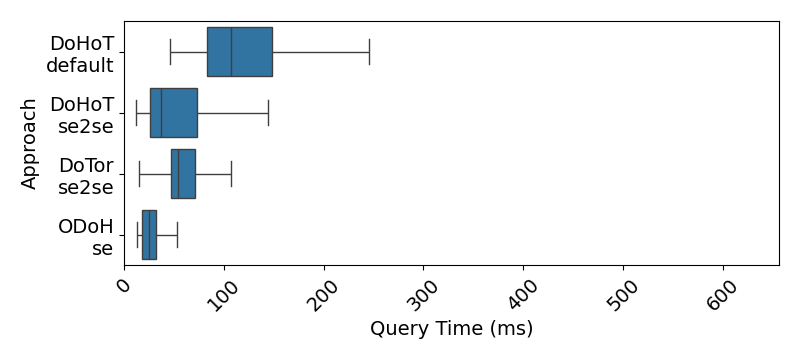
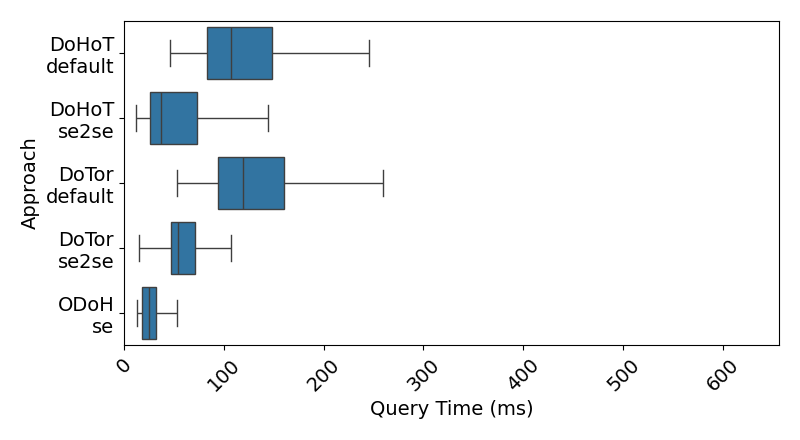
Improved clarity, updated graph/table, cropped world map

diff --git a/latex/src/background.tex b/latex/src/background.tex
@@ -31,14 +31,14 @@ the resolver operator.
 a low-latency anonymity network~\cite{dingledine2004} with an estimated 5
 million daily users and about 10,000 volunteer-operated relays as part of the
 Tor network~\cite{TorMetricsServers,TorMetricsUsers}. Tor provides anonymity by
-routing traffic through a series of relays as part of the Tor network such that
-no single relay knows both the communication's origin and destination. Traffic
-is routed through short-lived circuits. A typical circuit consists of three
-relays: an entry guard relay, a middle relay, and an exit relay (see
-Figure~\ref{fig:default-tor}). The entry relay is the only node that can observe
-the client source IP address. The middle relay forwards encrypted traffic
-between the entry and exit, while the exit relay communicates with the final
-destination. The circuit creation is referred to as path
+routing traffic through a series of these relays such that no single relay
+knows both the communication's origin and destination. Traffic is routed
+through short-lived circuits. A typical circuit consists of three relays: an
+entry guard relay, a middle relay, and an exit relay (see
+Figure~\ref{fig:default-tor}). The entry relay is the only node that can
+observe the client source IP address. The middle relay forwards encrypted
+traffic between the entry and exit, while the exit relay communicates with the
+final destination. The circuit creation is referred to as path
 selection~\cite{tor-path-selection}. The entry guard is long-lived (i.e., fixed
 from a small guard set that persists across invocations of Tor), while middle
 and exit relays are sampled weighted by their measured bandwidth. One thing to
@@ -62,27 +62,29 @@ separating the client from the query.
 servers act as recursive resolvers~\cite{ODNS}. A client encrypts the domain
 name with a key and appends the special-use \ac{tld} \texttt{odns}. The key
 itself is encrypted using the server's public key. The query and encrypted key
-are sent to any resolver, which acts as a proxy and forwards it to the \ac{odns}
-server. The server decrypts the key, decrypts the domain, performs recursion,
-and returns an encrypted answer via the resolver. The proxy resolver only sees
-ciphertext, while the \ac{odns} server cannot identify the client. However, two
-limitations exist: (i) \ac{ecs}~\cite{RFC7871} in \ac{edns}~\cite{RFC6891} may
-de-anonymize clients, and (ii) collusion between the resolver and \ac{odns}
-server links identity and query.
+are sent to any resolver, which acts as a proxy and forwards it to the
+\ac{odns} server (see Figure~\ref{fig:oblivious}). The server decrypts the key,
+decrypts the domain, performs recursion, and returns an encrypted answer via
+the resolver. The proxy resolver only sees ciphertext, while the \ac{odns}
+server cannot identify the client. However, two limitations exist: (i)
+\ac{ecs}~\cite{RFC7871} in \ac{edns}~\cite{RFC6891} may de-anonymize clients,
+and (ii) collusion between the resolver and \ac{odns} server links identity and
+query.
 
-\ac{odoh} builds on the idea from \ac{odns} but is instead using the \ac{doh}
-transport~\cite{RFC9230}, see Figure~\ref{fig:oblivious}. Clients send encrypted
-queries to a \ac{doh} forwarder (the proxy), which relays them to a \ac{doh}
-server (the target resolver). The proxy can observe the client's IP address but
-not the query, while the target resolver can observe the query but not the
-client source IP. The effectiveness of oblivious schemes hinges on the
-availability of resolvers and proxies that support the protocols. If this number
-is limited, it can hinder the scalability, accessibility, and privacy provided
-of the protocols for end-users. \ac{odns} needs custom authoritative name
-servers which also act as recursive resolvers, and \ac{odoh} needs custom
-proxies between clients and the recursive \ac{doh} resolvers. \ac{odoh} has seen
-deployment from Cloudflare with several proxy
-partners~\cite{cfblog,singanamalla2020}. Cloudflare has also commented on
+\acf{odoh} builds on the idea from \ac{odns} but is instead using the \ac{doh}
+transport~\cite{RFC9230}, see Figure~\ref{fig:oblivious}. Clients send
+encrypted queries to a \ac{doh} forwarder (the proxy), which relays them to a
+\ac{doh} server (the target resolver). The proxy can observe the client's IP
+address but not the query, while the target resolver can observe the query but
+not the client source IP. The effectiveness of oblivious schemes hinges on the
+availability of resolvers and proxies that support the protocols. If this
+number is limited, it can hinder the scalability, accessibility, and privacy
+provided of the protocols for end-users. \ac{odns} needs custom authoritative
+name servers which also act as recursive resolvers, and \ac{odoh} needs custom
+proxies between clients and the recursive \ac{doh} resolvers. \ac{odoh} has
+been actively promoted by Cloudflare through early deployment and the
+cultivation of partnerships with multiple proxy
+operators~\cite{cfblog,singanamalla2020}. Cloudflare has also commented on
 Mozilla's implementation of \ac{doh} where they suggested that Firefox also
 could help with discovering \ac{odoh} proxies which is important for a
 widespread adoption of the protocol~\cite{cfmozilla}.
@@ -131,7 +133,7 @@ demonstrated that, despite increased latency, the system maintained acceptable
 performance for everyday Internet activities. The main difference between
 \ac{dotor} and \ac{dohot} is that the exit relay is able to see the query in the
 former, while it is encrypted by the public key of the \ac{doh} resolver in the
-latter. 
+latter (see Figure~\ref{fig:dohot}). 
 
 Because \ac{doh} endpoints are application‑selected, a \ac{dohot} client can
 rotate across multiple independent \ac{doh} resolvers, distributing trust
@@ -163,7 +165,7 @@ resolving domains without knowing what they are using homomorphic encryption
 schemes~\cite{xiao2025}. Clients send encrypted queries to a resolver that
 cannot learn the requested domain, while cache misses trigger iterative lookups
 performed by the client. Authoritative servers privately populate the resolver's
-cache using a new EDNS-PR extension proposed by the authors. This design
+cache using a new extension proposed by the authors. This design
 distributes information exposure across multiple authoritative name servers,
 rather than concentrating it at resolvers, thereby raising the bar for
 large-scale profiling or collusion at the cost of protocol changes.

diff --git a/latex/src/discussion.tex b/latex/src/discussion.tex
@@ -12,18 +12,19 @@ DNS resolution over the Tor network using the Alexa top 10,000 domains. Their
 results showed a median resolution time of 31.31\,ms for traditional \ac{dns},
 compared to 276.76\,ms over Tor. It is important to note that their evaluation
 used a setup similar to \ac{dotor}, where DNS queries are resolved in plaintext
-at the exit relay. In our measurements around \ac{dotor} we saw a median resolution
-time of 250\,ms, but managed to reduce it to 50\,ms by tuning the circuits for latency.
+at the exit relay. In our measurements around \ac{dotor} with default torrc we
+saw a median resolution time of 119\,ms, but managed to reduce it to 54\,ms by
+tuning the circuits for latency.
 
 Singanamalla~\emph{et al.}~\cite{singanamalla2020} evaluated the performance of
 \ac{odoh} in a deployment setting, comparing it with several other protocols
 including standard \ac{doh}, proxied \ac{doh}, various \ac{odoh}
 configurations, DNSCrypt, and \ac{dohot}. They reported an average resolution
-time of approximately 300\,ms for \ac{odoh}, while \ac{dohot} averaged 696.40
-ms. In contrast, our experiments showed a substantially lower average for
-\ac{dohot} at 134.48\,ms. With a two-hop circuit using relays located in the
-same country as the client, the average resolution time was further reduced to
-61.69\,ms.
+time of approximately 300\,ms for \ac{odoh}, while \ac{dohot} averaged
+696.40\,ms. In contrast, our experiments showed a substantially lower average
+for \ac{dohot} at 134.48\,ms. With a two-hop circuit using relays located in
+the same country as the client, the average resolution time was further reduced
+to 61.69\,ms.
 
 Kurihara~\emph{et al.}~\cite{kurihara2023muodns} compared their
 collusion-resistant approach to anonymous \ac{dns} queries: $\mu$ODNS, against
@@ -129,11 +130,10 @@ the work is framed as a proof‑of‑concept with a research prototype demo.
         Tor-based (default) & 134$\pm$110\,ms (mean) & distributed trust + collusion resistant & 10,000 relays~\cite{TorMetricsServers} \\\hline
         Tor-based (2-hop)   & 61$\pm$135\,ms (mean) & distributed trust + collusion resistant & 10,000 relays~\cite{TorMetricsServers} \\\hline
         $\mu$ODNS           & 137$\pm$110\,ms (mean) & collusion resistant & 3 relays~\cite{modns-git} \\\hline
-        PIR-based           & 200\,ms (median) & collusion resistant & 0 relays \\\hline
+        PIR-based           & 208\,ms (median) & collusion resistant & 0 relays \\\hline
     \end{tabular}
 \end{table*}
 
-%\todo{I would refine this table and make it two-column (uses more space as a bonus!). For latency, quantify if possible (avg±std ms). I don't get why oblivious has to have lower latency than mu or PIR. For threat model, make it freetext. Oblivious: non-collusion. DoTor distributed trust, DoHoT: distributed trust + collusion resistance, mu: collusion resistance, PIR: depends. For Deployability, quantify: Tor is easy, try to get numbers for oblivious somewhere, etc. Then in the text, work in a sentence on clarifying that while 2-hop weakens from default Tor, it's still better than related stuff for DNS (for confused reviewers).}
 
 Table~\ref{tab:eval} shows an overview of the three dimensions for comparing
 anonymous \ac{dns} schemes. The oblivious single-proxy schemes have low latency
@@ -156,22 +156,11 @@ infrastructure.
 
 
 \subsection{Limitations} \label{sec:limit} 
-Our experiments primarily measured \ac{dns} query latency using \texttt{NXDOMAIN}
-lookups. This approach eliminates caching as a variable and does not accurately
-reflect real-world usage, where cache hits are common. Depending on the
-measurement targets of the related works, the \texttt{NXDOMAIN} queries could also
-explain some of our lower latency results for comparison. The full resolution
-of an existing domain requires additional queries between the resolver and name
-servers, increasing the round-trip time from client query to resolver response.
-Moreover, the improvement of routing and software stack performance may have
-also contributed to the observed decrease in latency compared to previous work
-in this area. Particularly relevant are the improvements to the performance of
-the Tor network itself~\cite{TorCongestion, TorPerformance}.
 
 \begin{figure*}[ht]
     \centering
     %Tor Relay Distribution in the World
-    \includegraphics[width=\textwidth]{img/tor-relays-map.pdf}
+    \includegraphics[trim={0 2.1cm 0 0},clip,width=\textwidth]{img/tor-relays-map.pdf}
     \caption{By fetching relay information from Tor, and geolocating the IP
     addresses, we plotted the locations on a world map. The result shows that
     relays are primarily located in Europe and the U.S. Other parts of the
@@ -179,12 +168,25 @@ the Tor network itself~\cite{TorCongestion, TorPerformance}.
     \label{fig:map}
 \end{figure*}
 
-The geographical location of the client is also relevant to performance as
+Our experiments primarily measured \ac{dns} query latency using
+\texttt{NXDOMAIN} lookups. This approach eliminates caching as a variable and
+does not accurately reflect real-world usage, where cache hits are common. The
+full resolution of an existing domain requires additional queries between the
+resolver and name servers, increasing the round-trip time from client query to
+resolver response. Depending on the measurement targets of the related works,
+the \texttt{NXDOMAIN} queries could also explain some of our lower latency
+results for comparison. Moreover, the improvement of routing and software stack
+performance may have also contributed to the observed decrease in latency
+compared to previous work in this area. Improvements to the performance of the
+Tor network itself are particularly relevant~\cite{TorCongestion,
+TorPerformance}.
+
+The geographical location of the client is also tied to performance as
 mentioned in Section~\ref{sec:compare}. Putting constraints on the location of
 Tor relays may only be feasible in locations with enough availability. In
 Figure~\ref{fig:map} we plot the geographical locations of available relays in
 December 2025. The two most dense areas in the world are Europe and the U.S.,
 this means that it might not be possible to select two relays within the same
-country, optimizing for latency, in countries outside these two areas. This is
+country, optimizing for latency, outside these two areas. This is
 a limitation of using Tor relays for this purpose.
 

diff --git a/latex/src/method.tex b/latex/src/method.tex
@@ -5,9 +5,9 @@ typically assume the default Tor client configuration (e.g., in as in
 DoHoT~\cite{DoHoT}), where circuits consists of three randomly selected relays
 (see Section~\ref{sec:bg:tor}). The geographic placement of these relays can
 heavily influence latency results. To provide a more complete picture, our
-overarching evaluation considers additional dimensions such as the threat model
-and deployability, in addition to exploring how we can reduce latency in
-Tor-based solutions.
+overarching evaluation in Section~\ref{sec:disc} considers additional
+dimensions such as the threat model and deployability, while exploring
+how we can reduce latency in Tor-based solutions.
 
 This study is focusing on two approaches for reducing latency in Tor circuits:
 controlling the \emph{number} of relays and the \emph{location} of relays. The
@@ -37,7 +37,7 @@ around the world.
 
 To eliminate the effects of caching and to maintain consistency across tests,
 the measurements issue queries for uniquely generated \acp{sld} under a valid
-\ac{tld}, which are expected to return an non-existing-domain return code
+\ac{tld}, which are expected to return a non-existing-domain return code
 (\texttt{NXDOMAIN}). The query name consists of
 \texttt{prot-method-circuit-i-XXXXXXXX.net}. The first part is the protocol in
 use (i.e, \ac{dohot}, \ac{dotor}, \ac{odoh}). The second part is the method for
@@ -52,17 +52,17 @@ query is unique to avoid influence of cache hits. This approach with unique
 path between the client and the resolver.
 
 Each configuration is measured 1,000 times with unique queries. In each
-iteration, we start our measurement container with the specified configuration
-and wait until a circuit is established and an arbitrary query receives a
-successful response. This prelude ensures that the Tor circuit is fully
-established and that we have a functional \ac{dns} resolution over Tor. A query
-is then issued for an A record using a unique non-existent domain described
-earlier, and the time for the reply to return is measured in milliseconds.
-Finally, the container is stopped before the next iteration begins to ensure a
-new circuit. The code for the containers and measurement script can be found on
-GitHub\footnote{Anonymized for submission}.
+iteration, we start our measurement docker container with the specified
+configuration and wait until a circuit is established and an arbitrary query
+receives a successful response. This prelude ensures that the Tor circuit is
+fully established and that we have a functional \ac{dns} resolution over Tor. A
+query is then issued for an A record using a unique non-existent domain
+described earlier, and the time for the reply to return is measured in
+milliseconds. Finally, the container is stopped before the next iteration
+begins to ensure a new circuit. The code for the containers and measurement
+script can be found on GitHub\footnote{Anonymized for submission}.
 
-For comparison we set up docker containers running \ac{dohot} and
+For comparison we set up containers running \ac{dohot} and
 \ac{odoh}. Both of these utilize DNSCrypt-proxy which is a flexible proxy for
 \ac{dns} and supports many encryption protocols~\cite{dnscrypt-proxy}.
 DNSCrypt-proxy is responsible for listening on a port for client queries and
@@ -74,17 +74,17 @@ using anycast which means that the closest from the perspective of our exit or
 proxy will be used\footnote{\url{https://developers.cloudflare.com/1.1.1.1/}}.
 
 In addition we also implemented and measured the latency of \ac{dotor}. This is
-similar to the Tor-based approach used for comparison with \ac{odns}~\cite{ODNS}
-where \ac{doh} is not used. Instead the query is resolved by the exit relay. Our
-\ac{dotor} approach relies on directly interfacing with the Tor client using its
-extensions to the SOCKS5 protocol, specifically the RESOLVE command value
-(0xF0)\cite{tor-socks5}. This allows for sending a domain to be resolved instead
-of a destination for the exit relay to connect to (i.e., Tor uses
-\texttt{RELAY\_RESOLVE} cells~\cite{TorSpecResolve}, see
+similar to the Tor-based approach used for comparison with
+\ac{odns}~\cite{ODNS} where \ac{doh} is not used. Instead the query is resolved
+by the exit relay. Our \ac{dotor} approach relies on directly interfacing with
+the Tor client using its extensions to the SOCKS5 protocol, specifically the
+RESOLVE command value (0xF0)\cite{tor-socks5}. This allows for sending a domain
+to be resolved instead of a destination for the exit relay to connect to (i.e.,
+Tor uses \texttt{RELAY\_RESOLVE} cells~\cite{TorSpecResolve}, see
 Section~\ref{sec:bak:tor}). It should be noted that this approach does not
 utilize full \ac{dns}-queries at this level. To interface with the Tor client a
-python script is instead used to receive and provide dig-compliant DNS queries
-and their answers. While negligible in this context, it should be noted that
-some overhead is incurred in the process.
+python script is used instead of DNSCrypt-proxy to receive and provide
+dig-compliant DNS queries and their answers. While negligible in this context,
+it should be noted that some overhead is incurred in the process.
 
 

diff --git a/latex/src/intro.tex b/latex/src/intro.tex
@@ -23,40 +23,36 @@ data breaches and leakage risks.
 
 To break this direct link between client identity and \ac{dns} query content,
 new protocols have been proposed. \emph{Oblivious} protocols introduce a
-dedicated relay (or proxy) between the client and the resolver so that no single
-entity can observe both ends of the query~\cite{RFC9230,ODNS}. \emph{Tor-based}
-solutions use the Tor network~\cite{dingledine2004} to separate the client
-identity from the query~\cite{DoHoT}. Another recent proposal involves
-integrating \ac{pir} to \ac{dns} resolvers leveraging homomorphic encryption
-schemes~\cite{xiao2025}. The client sends an encrypted query, the resolver
-computes over encrypted data using homomorphic encryption, and returns an
-encrypted response that the client decrypts locally, ensuring the resolver never
-learns the requested domain. Comparing these proposals solely in terms of query
-latency, which is a pain point for both encrypted and anonymous \ac{dns}
-transport, places the Tor-based solutions dead
-last~\cite{RFC9230,kurihara2023muodns,ODNS,xiao2025}.
+dedicated relay (or proxy) between the client and the resolver so that no
+single entity can observe both ends of the query~\cite{RFC9230,ODNS}.
+\emph{Tor-based} solutions use the Tor network~\cite{dingledine2004} to
+separate the client identity from the query~\cite{DoHoT}. Another recent
+proposal integrates \ac{pir} into \ac{dns} resolution by using homomorphic
+encryption to process encrypted queries and return encrypted responses,
+ensuring the resolver never learns the requested domain~\cite{xiao2025}.
+Comparing these proposals solely in terms of query latency, which is a pain
+point for both encrypted and anonymous \ac{dns} transport, places the Tor-based
+solutions dead last~\cite{RFC9230,kurihara2023muodns,ODNS,xiao2025}.
 
 In this paper, we compare different anonymous query schemes in terms of query
-latency, \emph{threat model}, and deployability concerns. We explore how Tor's
+latency, threat model, and deployability concerns. We explore how Tor's
 latency overhead can be reduced \emph{while at the same time} still provide
-stronger privacy guarantees for \ac{dns} resolution compared to related work. We
-are not trying to hide that the client is communicating with a \ac{dns}
+stronger privacy guarantees for \ac{dns} resolution compared to related work. 
+The goal is \emph{not} to hide that the client is communicating with a \ac{dns}
 resolver. The query content must be hidden from the relays while keeping the
 client source IP hidden from the \ac{dns} resolver. That is why this study
 investigates the viability of using two-hop Tor circuits and restricting relays
 to geographic regions in close proximity to the client. Our main contributions
 are as follows:
 
-%\todo{We need 3 crisp contributions here, now the first contrib bullet defines privacy? Iterate on the expanded text then revisit the intro. The contrib bullets should be crisp, concrete, and falsifiable, as the second bullet is better at than the first.}
-
 \begin{itemize}
-    \item Threat‑model grounding for anonymous \ac{dohot}: We formalize the
+    \item Threat‑model grounding for anonymous \acs{dohot}: We formalize the
         adversary for anonymous \ac{dns} (resolver-side observer) and show that
         shortened two‑hop circuits (guard and exit) in Tor still prevent any single
         entity from linking client IP and query contents, providing strictly
         stronger protections than single‑proxy oblivious schemes under
         proxy-resolver collusion (Section~\ref{sec:threatmodel}).
-    \item Measurement‑driven latency tuning of \ac{dohot}: Using programmable
+    \item Measurement‑driven latency tuning of \acs{dohot}: Using programmable
         circuit construction (carml+Stem), we demonstrate that constraining
         both relays to a nearby region reduces average resolution time from
         134$\pm$110\,ms (default 3‑hop) to 61$\pm$135\,ms (two‑hop, co‑located
@@ -64,7 +60,7 @@ are as follows:
         (Sections~\ref{sec:method} and \ref{sec:measurement}).
     \item Deployability and trade‑off analysis: We compare anonymous \ac{dns}
         schemes across latency, threat model, and deployability, positioning
-        two‑hop localized \ac{dohot} as a practical middle ground: near
+        two‑hop localized \acs{dohot} as a practical middle ground: near
         \ac{odoh} latency while maintaining collusion resistance without new
         infrastructure (Section~\ref{sec:disc}).
 \end{itemize}

diff --git a/measurements/plot.py b/measurements/plot.py
@@ -146,10 +146,10 @@ def plot_five(dframe, xmax=None):
     # DoHoT vs Optimised vs ODoH 
     # dframe['ylabel'] = df['prot'] + '\n' + df['setting']
     dframe['ylabel'] = dframe['prot'] + '\n' + dframe['setting']
-    plt.figure(figsize=(width, (height-1.5)*scale))
+    plt.figure(figsize=(width, (height-0.5)*scale))
     ax = sns.boxplot(y='ylabel', x='time', data=dframe, showfliers=False)
     if xmax: ax.set_xlim(0, xmax)
-    ax.set_yticklabels(["DoHoT\ndefault", "DoHoT\nse2se", "DoTor\nse2se", "ODoH\nse"])
+    ax.set_yticklabels(["DoHoT\ndefault", "DoHoT\nse2se", "DoTor\ndefault", "DoTor\nse2se", "ODoH\nse"])
     plt.xticks(rotation=45)
     plt.xlabel('Query Time (ms)')
     plt.ylabel('Approach')
@@ -245,6 +245,10 @@ tmp = pd.concat([tmp, df[
         (df['prot'] == "dohot") & 
         (df['method'] == "carml+stem") & 
         (df['setting'] == "se2se")]], sort=False) # new dohot
+tmp = pd.concat([tmp, df[
+        (df['prot'] == "dotor") & 
+        (df['method'] == "torrc") & 
+        (df['setting'] == "any2any2any")]], sort=False) # old dotor
 tmp = pd.concat([tmp, df[
         (df['prot'] == "dotor") & 
         (df['method'] == "carml+stem") & 

diff --git a/latex/src/threatmodel.tex b/latex/src/threatmodel.tex
@@ -5,8 +5,8 @@ with access to query information at the target recursive
 resolver~\cite{RFC9230,kurihara2023muodns,DoHoT,ODNS}, as depicted in
 Figure~\ref{fig:threatmodel}. The objective is to anonymize the client's
 identity (source IP address) so that it cannot be linked to the issued query
-processed by the resolver. The goal is not to hide the fact that the client is
-communicating with a \ac{dns} resolver.
+processed by the resolver. The goal is \emph{not} to hide the fact that the
+client is communicating with a \ac{dns} resolver.
 
 \begin{figure}[h]
     \centering
@@ -14,7 +14,7 @@ communicating with a \ac{dns} resolver.
     \caption{The adversary in the threat model for anonymous DNS is the
     resolver with knowledge about the query. One or more proxies may know the
     client source IP or the resolver IP but not the query since the traffic is
-    encrypted. If the resolver and all proxies collude, then they can
+    encrypted. If the resolver and \emph{all} proxies collude, then they can
     compromise the user's privacy.}
     \label{fig:threatmodel}
 \end{figure}

diff --git a/latex/src/measurement.tex b/latex/src/measurement.tex
@@ -37,7 +37,7 @@ performance gap is due to differences in relay selection. By default,
 geographically optimal relays. In contrast, \texttt{carml+Stem} selects relays
 uniformly at random within constraints such as location and relay type (e.g.,
 exit or non-exit). Another takeaway from this measurement is that the latency is
-reduced for both circuit-building methods when we place the entry and exit relay
+reduced for both circuit-building methods when we place the entry and exit relays
 closer to the client (i.e., \texttt{se2any2se}).
 
 \subsection{Query Time by Circuit (Specific Middle)}
@@ -108,7 +108,7 @@ with the results shown in Figure~\ref{fig:p4}.
 \begin{figure}[ht]
     \centering
     \includegraphics[width=\columnwidth]{img/p5.pdf}
-    \caption{Comparing the default configuration of DoHoT (any2any2any) with
+    \caption{Comparing the default torrc configuration (any2any2any) of DoHoT and DoTor with
     DoHoT (se2se), DoTor (se2se), as well as ODoH with a proxy in Sweden.}
     \label{fig:p5}
 \end{figure}

diff --git a/latex/main.tex b/latex/main.tex
@@ -68,6 +68,7 @@
 \section*{Acknowledgement}
 Anonymized for submission.
 
+\newpage
 \bibliographystyle{splncs04}
 \bibliography{src/ref} 
 